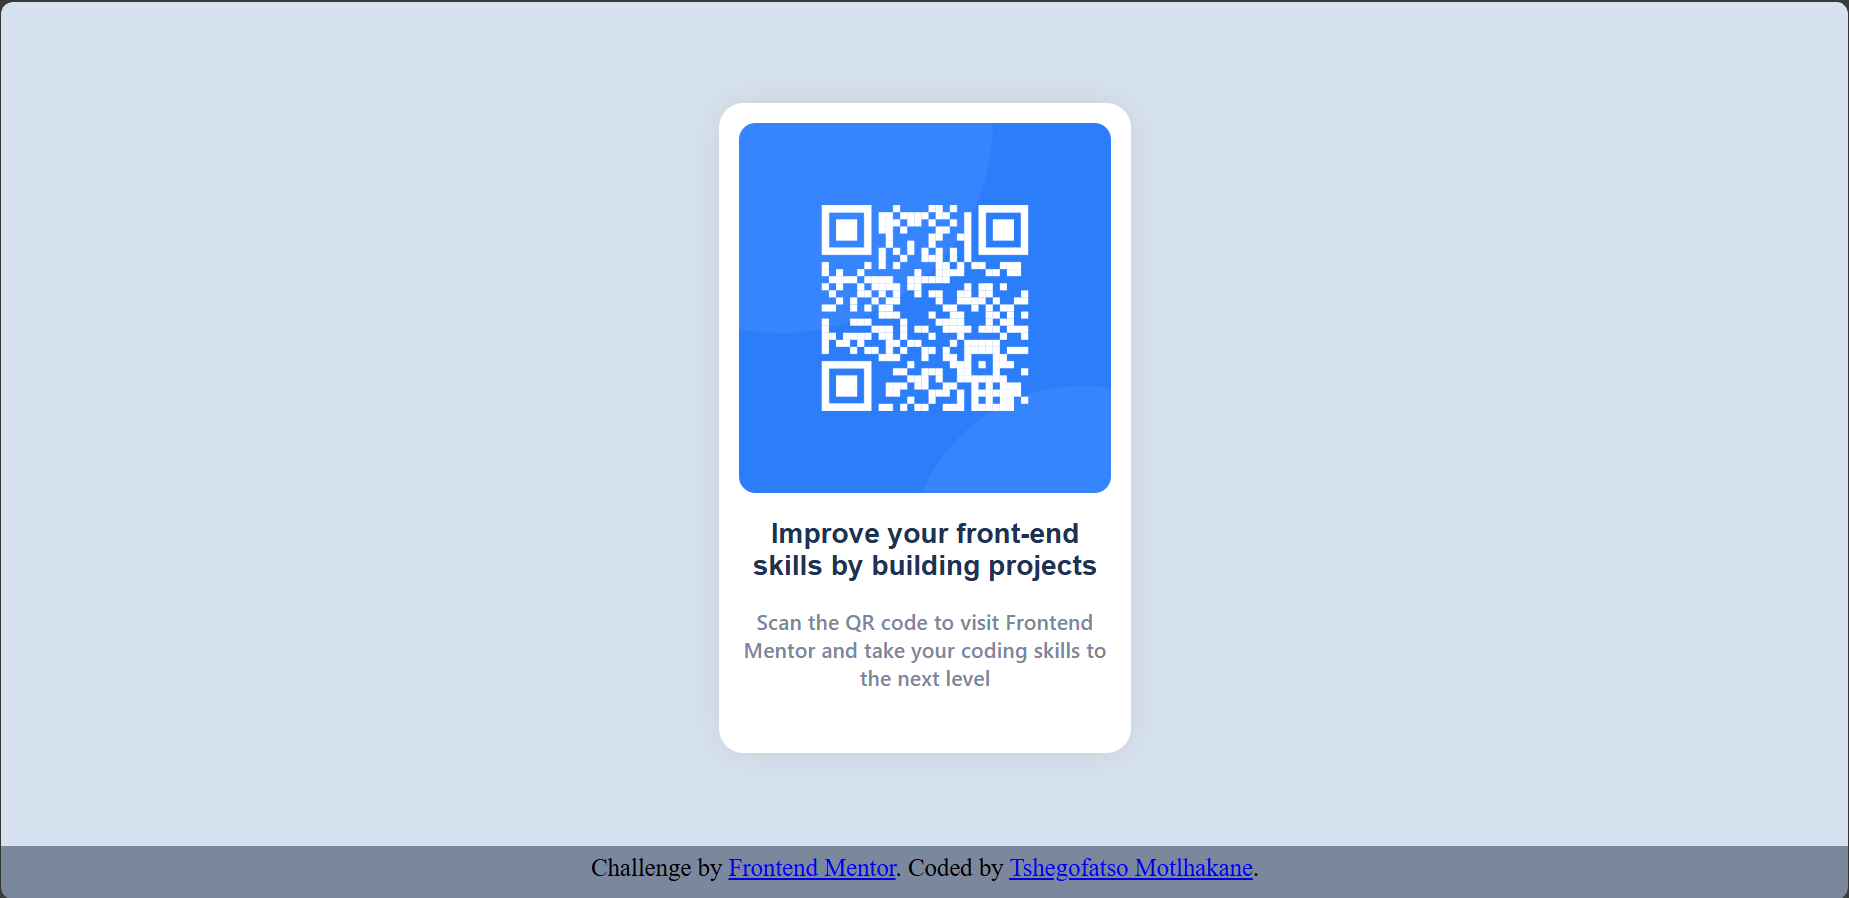
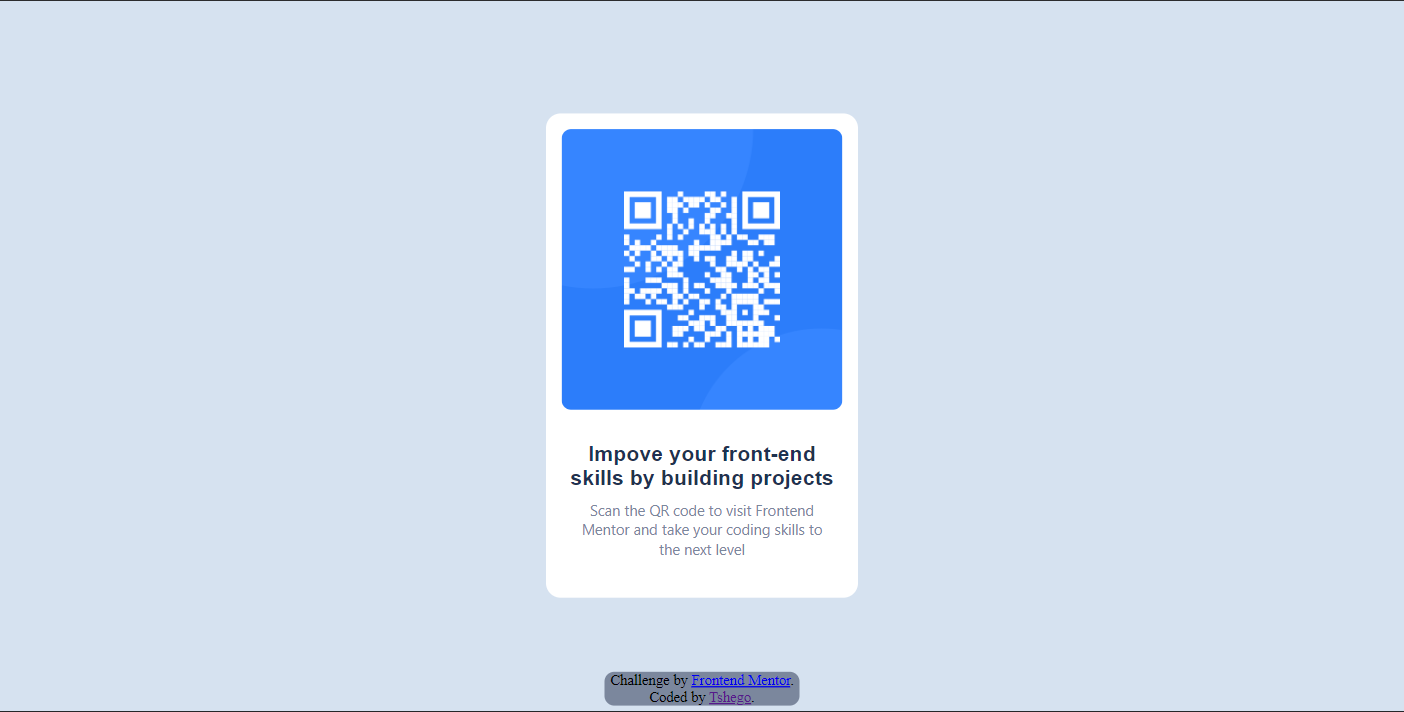
fix resposiveness

diff --git a/qr-code-component-main/style.css b/qr-code-component-main/style.css
@@ -1,64 +1,92 @@
+:root{
+  --White: hsl(0, 0%, 100%);
+  --Light-gray: hsl(212, 45%, 89%);
+  --Grayish-blue: hsl(220, 15%, 55%);
+  --Dark-blue: hsl(218, 44%, 22%)
+}
+
+*{margin: 0;
+padding: 0;}
+
 body {
   height: 100vh;
   width: 100%;
-  background-color: hsl(212, 45%, 89%);
-  margin: 0;
+  background-color:var(--Light-gray);
+  
 }
 
-.main {
+.container {
   width: 100%;
-  height: 95vh;
+  height: 100vh;
   display: flex;
   justify-content: center;
   align-items: center;
+ 
 }
-.card {
-  height: 70%;
-  width: 250px;
-  background-color: hsl(0, 0%, 100%);
+
+
+.card{
+  
+  height: 497px;
+  width: 320px;
+  background-color: var(--White);
   border-radius: 15px;
   display: flex;
   flex-direction: column;
   align-items: center;
-  padding: 12px 0 20px 0;
-  box-shadow: 0 0 20px hsl(220, 9%, 81%);
+  justify-content: space-around;
 }
 
-img {
-  width: 90%;
-  height: 62%;
+img{
+  height: 288px;
+  width: 288px;
   border-radius: 10px;
 }
 
-.p1 {
-  text-align: center;
-  font-size: 17px;
-  font-family: "Outfit", sans-serif;
+.image-info{
+
+  height: 129px;
+  width: 288px;
+  margin-bottom: 16px;
+  display: flex;
+  flex-direction: column;
+  align-items: center;
+
+}
+
+h2{
+  font-family: 'Outfit', sans-serif;
+  color: var(--Dark-blue);
   font-weight: 700;
-  width: 90%;
-  margin: 10px 0 10px 0;
-  color: hsl(218, 44%, 22%);
-  padding: 5px;
-}
-
-.p2 {
-  font-size: 13px;
-  font-weight: 500;
-  width: 90%;
-  margin: 0;
-  color: hsl(220, 15%, 55%);
-  font-family: system-ui, -apple-system, BlinkMacSystemFont, "Segoe UI", Roboto,
-    Oxygen, Ubuntu, Cantarell, "Open Sans", "Helvetica Neue", sans-serif;
+  font-size: 22px;
   text-align: center;
 }
 
-.attribution {
-  background-color: hsl(220, 15%, 55%);
-  position: absolute;
-  bottom: 0;
+.image-info p{
+  color: var(--Grayish-blue);
+  font-weight: 400;
+  font-size: 15px;
+  text-align: center;
+  font-family: 'Segoe UI', Tahoma, Geneva, Verdana, sans-serif;
+  margin-top: 10px;
+  width: 256px;
+}
+
+footer{
   width: 100%;
-  height: 5vh;
-  text-align: center;
-  font-size: clamp(12px, 2vw, 15px);
-  padding-top: 5px;
+  position: absolute;
+  bottom: 5px;
+  display: flex;
+  align-items: center;
+  justify-content: center;
 }
+
+.attribution{
+  background-color: var(--Grayish-blue);
+  border-radius: 10px;
+  width: 200px;
+  font-size: clamp(10px, 2vw , 15px);
+  text-align: center;
+}
+
+

diff --git a/qr-code-component-main/index.html b/qr-code-component-main/index.html
@@ -11,28 +11,28 @@
       sizes="32x32"
       href="./images/favicon-32x32.png"
     />
-
     <title>Frontend Mentor | QR code component</title>
     <link rel="stylesheet" href="style.css" />
   </head>
   <body>
-    <div class="main">
+    <div class="container">
       <div class="card">
-        <img src="./images/image-qr-code.png" alt="" srcset="" />
-        <p class="p1"><strong> your front-end skills by building projects</strong></p>
-        
-        <p class="p2">
-          Scan the QR code to visit Frontend Mentor and take your coding skills
-          to the next level
-        </p>
+        <img src="./images/image-qr-code.png" alt="image-qr-code.png" />
+        <div class="image-info">
+          <h2>Impove your front-end skills by building projects</h2>
+
+          <p>
+            Scan the QR code to visit Frontend Mentor and take your coding
+            skills to the next level
+          </p>
+        </div>
       </div>
     </div>
-
-    <div class="attribution">
-      Challenge by
-      <a href="https://www.frontendmentor.io?ref=challenge" target="_blank"
-        >Frontend Mentor</a
-      >. Coded by <a href="https://www.linkedin.com/in/tshegofatso-motlhakane-905600233/">Tshegofatso Motlhakane</a>.
-    </div>
+    <footer>
+      <p class="attribution">
+        Challenge by <a href="https://www.frontendmentor.io?ref=challenge" target="_blank">Frontend Mentor</a>.
+        Coded by <a href="https://www.linkedin.com/in/tshegofatso-motlhakane-905600233/">Tshego</a>.
+      </p>
+    </footer>
   </body>
 </html>
